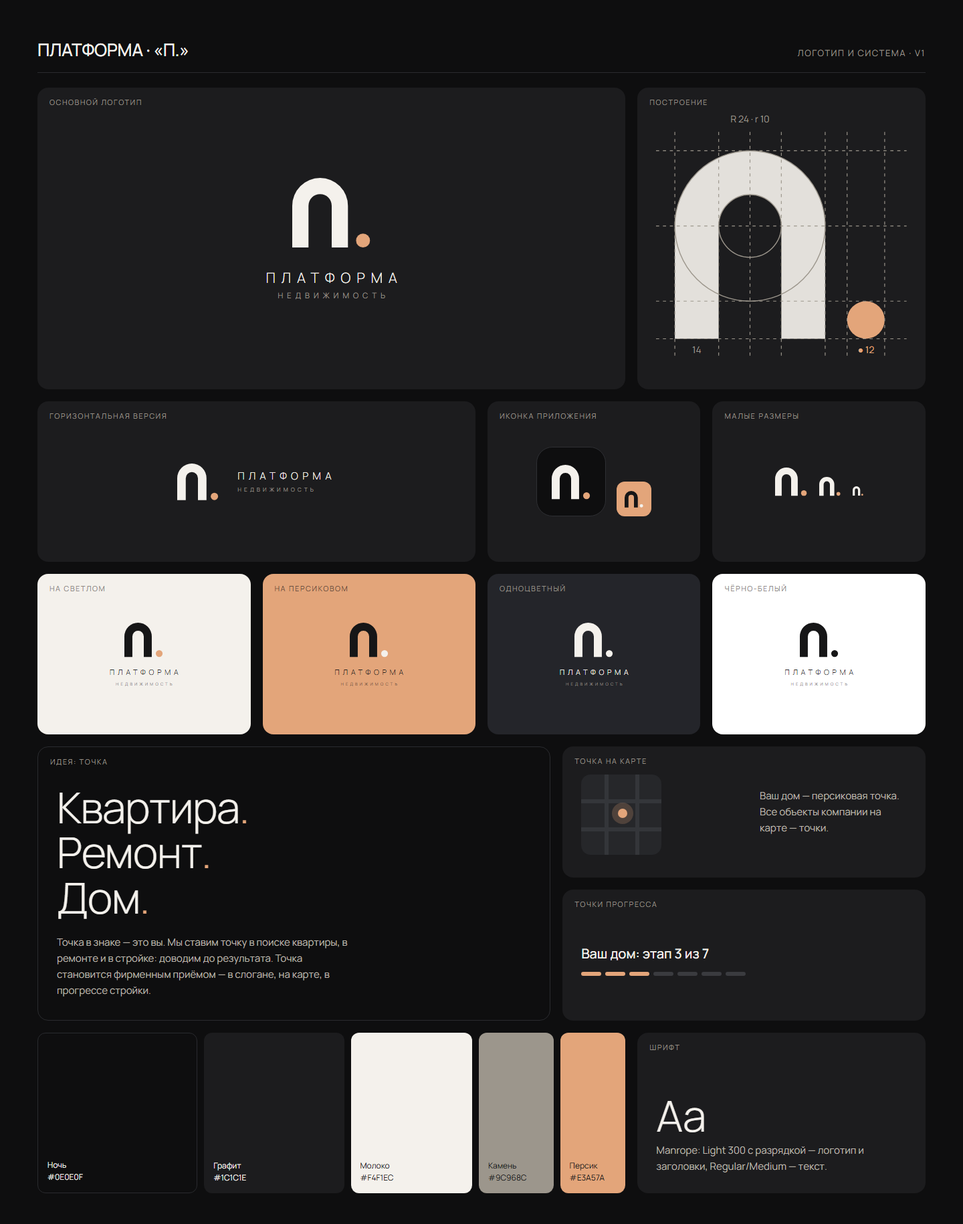
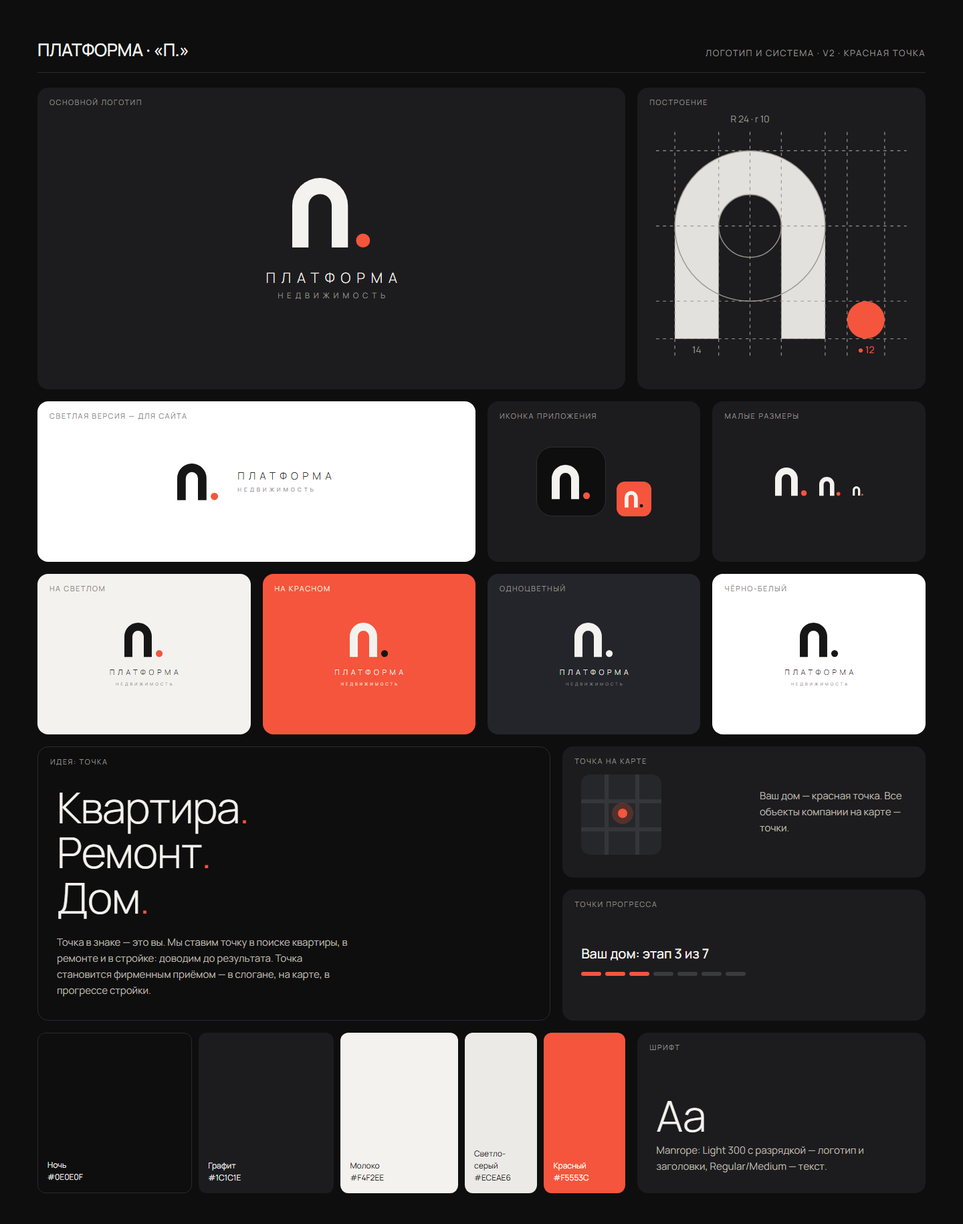
«П.»: красная точка и палитра по вкусу клиента (v2)

diff --git a/06_П_точка/index.html b/06_П_точка/index.html
@@ -2,10 +2,10 @@
 <title>Логотип «П.»</title>
 <link href="https://fonts.googleapis.com/css2?family=Manrope:wght@300;400;500;600;800&display=swap" rel="stylesheet">
 <style>
-*{box-sizing:border-box}body{margin:0;background:#0E0E0F;color:#F4F1EC;font:400 16px/1.5 Manrope,system-ui,sans-serif}
+*{box-sizing:border-box}body{margin:0;background:#0E0E0F;color:#F4F2EE;font:400 16px/1.5 Manrope,system-ui,sans-serif}
 .wrap{max-width:1440px;margin:0 auto;padding:56px}
 .top{display:flex;justify-content:space-between;align-items:baseline;border-bottom:1px solid #2A2B2F;padding-bottom:16px;margin-bottom:22px}
-.top b{font:500 26px Manrope,sans-serif;letter-spacing:-.01em}.top span{color:#9C968C;font-size:13px;letter-spacing:.12em;text-transform:uppercase}
+.top b{font:500 26px Manrope,sans-serif;letter-spacing:-.01em}.top span{color:#9A968F;font-size:13px;letter-spacing:.12em;text-transform:uppercase}
 .g{display:grid;grid-template-columns:repeat(12,minmax(0,1fr));gap:18px}
 .t{border-radius:16px;position:relative;display:flex;align-items:center;justify-content:center;min-height:240px;padding:28px}
 .cap{position:absolute;left:18px;top:14px;font-size:11px;letter-spacing:.14em;text-transform:uppercase}
@@ -16,39 +16,39 @@
 .sw{display:flex;flex-direction:column;justify-content:flex-end;padding:14px;border-radius:12px;min-height:150px;font-size:12px}
 @media(max-width:900px){.wrap{padding:24px 16px}.g>*{grid-column:span 12!important}.idea{font-size:40px}}
 </style></head><body><div class="wrap">
-<div class="top"><b>ПЛАТФОРМА · «П.»</b><span>логотип и система · v1</span></div>
+<div class="top"><b>ПЛАТФОРМА · «П.»</b><span>логотип и система · v2 · красная точка</span></div>
 <div class="g">
-  <div class="t s8" style="background:#1C1C1E;min-height:420px"><span class="cap" style="color:#9C968C">основной логотип</span><div style="display:flex;flex-direction:column;align-items:center;gap:35px"><svg width="118" height="104.1" viewBox="0 0 68 60" role="img" aria-label="Знак «П.»" style="overflow:visible"><path d="M0 60 V24 A24 24 0 0 1 48 24 V60 H34 V24 A10 10 0 0 0 14 24 V60 Z" fill="#F4F1EC"/><circle cx="61" cy="54" r="6" fill="#E3A57A"/></svg><div style="display:flex;flex-direction:column;align-items:center"><div style="font:300 21px/1 Manrope,sans-serif;letter-spacing:.42em;margin-right:-.42em;color:#F4F1EC;white-space:nowrap">ПЛАТФОРМА</div><div style="font:400 11.6px/1 Manrope,sans-serif;letter-spacing:.5em;margin-right:-.5em;color:#9C968C;white-space:nowrap;margin-top:10px">НЕДВИЖИМОСТЬ</div></div></div></div>
-  <div class="t s4" style="background:#1C1C1E;min-height:420px"><span class="cap" style="color:#9C968C">построение</span><svg width="405.6" height="395.2" viewBox="-6 -12 80 80" role="img" aria-label="Построение знака"><path d="M0 60 V24 A24 24 0 0 1 48 24 V60 H34 V24 A10 10 0 0 0 14 24 V60 Z" fill="#F4F1EC" fill-opacity=".92"/><circle cx="61" cy="54" r="6" fill="#E3A57A"/><line x1="0" y1="-6" x2="0" y2="66" stroke="#9C968C" stroke-width=".25" stroke-dasharray="1 1.2"/><line x1="14" y1="-6" x2="14" y2="66" stroke="#9C968C" stroke-width=".25" stroke-dasharray="1 1.2"/><line x1="24" y1="-6" x2="24" y2="66" stroke="#9C968C" stroke-width=".25" stroke-dasharray="1 1.2"/><line x1="34" y1="-6" x2="34" y2="66" stroke="#9C968C" stroke-width=".25" stroke-dasharray="1 1.2"/><line x1="48" y1="-6" x2="48" y2="66" stroke="#9C968C" stroke-width=".25" stroke-dasharray="1 1.2"/><line x1="55" y1="-6" x2="55" y2="66" stroke="#9C968C" stroke-width=".25" stroke-dasharray="1 1.2"/><line x1="67" y1="-6" x2="67" y2="66" stroke="#9C968C" stroke-width=".25" stroke-dasharray="1 1.2"/><line x1="-6" y1="0" x2="74" y2="0" stroke="#9C968C" stroke-width=".25" stroke-dasharray="1 1.2"/><line x1="-6" y1="24" x2="74" y2="24" stroke="#9C968C" stroke-width=".25" stroke-dasharray="1 1.2"/><line x1="-6" y1="48" x2="74" y2="48" stroke="#9C968C" stroke-width=".25" stroke-dasharray="1 1.2"/><line x1="-6" y1="60" x2="74" y2="60" stroke="#9C968C" stroke-width=".25" stroke-dasharray="1 1.2"/><circle cx="24" cy="24" r="24" fill="none" stroke="#9C968C" stroke-width=".3"/><circle cx="24" cy="24" r="10" fill="none" stroke="#9C968C" stroke-width=".3"/><text x="24" y="-9" font-size="3" fill="#9C968C" text-anchor="middle" font-family="Manrope">R 24 · r 10</text><text x="7" y="64.5" font-size="3" fill="#9C968C" text-anchor="middle" font-family="Manrope">14</text><text x="61" y="64.5" font-size="3" fill="#E3A57A" text-anchor="middle" font-family="Manrope">● 12</text></svg></div>
+  <div class="t s8" style="background:#1C1C1E;min-height:420px"><span class="cap" style="color:#9A968F">основной логотип</span><div style="display:flex;flex-direction:column;align-items:center;gap:35px"><svg width="118" height="104.1" viewBox="0 0 68 60" role="img" aria-label="Знак «П.»" style="overflow:visible"><path d="M0 60 V24 A24 24 0 0 1 48 24 V60 H34 V24 A10 10 0 0 0 14 24 V60 Z" fill="#F4F2EE"/><circle cx="61" cy="54" r="6" fill="#F5553C"/></svg><div style="display:flex;flex-direction:column;align-items:center"><div style="font:300 21px/1 Manrope,sans-serif;letter-spacing:.42em;margin-right:-.42em;color:#F4F2EE;white-space:nowrap">ПЛАТФОРМА</div><div style="font:400 11.6px/1 Manrope,sans-serif;letter-spacing:.5em;margin-right:-.5em;color:#9A968F;white-space:nowrap;margin-top:10px">НЕДВИЖИМОСТЬ</div></div></div></div>
+  <div class="t s4" style="background:#1C1C1E;min-height:420px"><span class="cap" style="color:#9A968F">построение</span><svg width="405.6" height="395.2" viewBox="-6 -12 80 80" role="img" aria-label="Построение знака"><path d="M0 60 V24 A24 24 0 0 1 48 24 V60 H34 V24 A10 10 0 0 0 14 24 V60 Z" fill="#F4F2EE" fill-opacity=".92"/><circle cx="61" cy="54" r="6" fill="#F5553C"/><line x1="0" y1="-6" x2="0" y2="66" stroke="#9A968F" stroke-width=".25" stroke-dasharray="1 1.2"/><line x1="14" y1="-6" x2="14" y2="66" stroke="#9A968F" stroke-width=".25" stroke-dasharray="1 1.2"/><line x1="24" y1="-6" x2="24" y2="66" stroke="#9A968F" stroke-width=".25" stroke-dasharray="1 1.2"/><line x1="34" y1="-6" x2="34" y2="66" stroke="#9A968F" stroke-width=".25" stroke-dasharray="1 1.2"/><line x1="48" y1="-6" x2="48" y2="66" stroke="#9A968F" stroke-width=".25" stroke-dasharray="1 1.2"/><line x1="55" y1="-6" x2="55" y2="66" stroke="#9A968F" stroke-width=".25" stroke-dasharray="1 1.2"/><line x1="67" y1="-6" x2="67" y2="66" stroke="#9A968F" stroke-width=".25" stroke-dasharray="1 1.2"/><line x1="-6" y1="0" x2="74" y2="0" stroke="#9A968F" stroke-width=".25" stroke-dasharray="1 1.2"/><line x1="-6" y1="24" x2="74" y2="24" stroke="#9A968F" stroke-width=".25" stroke-dasharray="1 1.2"/><line x1="-6" y1="48" x2="74" y2="48" stroke="#9A968F" stroke-width=".25" stroke-dasharray="1 1.2"/><line x1="-6" y1="60" x2="74" y2="60" stroke="#9A968F" stroke-width=".25" stroke-dasharray="1 1.2"/><circle cx="24" cy="24" r="24" fill="none" stroke="#9A968F" stroke-width=".3"/><circle cx="24" cy="24" r="10" fill="none" stroke="#9A968F" stroke-width=".3"/><text x="24" y="-9" font-size="3" fill="#9A968F" text-anchor="middle" font-family="Manrope">R 24 · r 10</text><text x="7" y="64.5" font-size="3" fill="#9A968F" text-anchor="middle" font-family="Manrope">14</text><text x="61" y="64.5" font-size="3" fill="#F5553C" text-anchor="middle" font-family="Manrope">● 12</text></svg></div>
 
-  <div class="t s6" style="background:#1C1C1E"><span class="cap" style="color:#9C968C">горизонтальная версия</span><div style="display:flex;align-items:center;gap:28px"><svg width="62" height="54.7" viewBox="0 0 68 60" role="img" aria-label="Знак «П.»" style="overflow:visible"><path d="M0 60 V24 A24 24 0 0 1 48 24 V60 H34 V24 A10 10 0 0 0 14 24 V60 Z" fill="#F4F1EC"/><circle cx="61" cy="54" r="6" fill="#E3A57A"/></svg><div style="display:flex;flex-direction:column;align-items:flex-start"><div style="font:300 15px/1 Manrope,sans-serif;letter-spacing:.42em;color:#F4F1EC;white-space:nowrap">ПЛАТФОРМА</div><div style="font:400 8.2px/1 Manrope,sans-serif;letter-spacing:.5em;color:#9C968C;white-space:nowrap;margin-top:9px">НЕДВИЖИМОСТЬ</div></div></div></div>
-  <div class="t s3" style="background:#1C1C1E"><span class="cap" style="color:#9C968C">иконка приложения</span>
-    <div style="display:flex;align-items:flex-end;gap:16px"><div style="width:104px;height:104px;border-radius:24px;background:#0E0E0F;display:flex;align-items:center;justify-content:center;border:1px solid #2E2F33"><svg width="58" height="51.2" viewBox="0 0 68 60" role="img" aria-label="Знак «П.»" style="overflow:visible"><path d="M0 60 V24 A24 24 0 0 1 48 24 V60 H34 V24 A10 10 0 0 0 14 24 V60 Z" fill="#F4F1EC"/><circle cx="61" cy="54" r="6" fill="#E3A57A"/></svg></div>
-    <div style="width:52px;height:52px;border-radius:12px;background:#E3A57A;display:flex;align-items:center;justify-content:center"><svg width="28" height="24.7" viewBox="0 0 68 60" role="img" aria-label="Знак «П.»" style="overflow:visible"><path d="M0 60 V24 A24 24 0 0 1 48 24 V60 H34 V24 A10 10 0 0 0 14 24 V60 Z" fill="#161617"/><circle cx="61" cy="54" r="6" fill="#F4F1EC"/></svg></div></div></div>
-  <div class="t s3" style="background:#1C1C1E"><span class="cap" style="color:#9C968C">малые размеры</span>
-    <div style="display:flex;align-items:flex-end;gap:18px"><svg width="48" height="42.4" viewBox="0 0 68 60" role="img" aria-label="Знак «П.»" style="overflow:visible"><path d="M0 60 V24 A24 24 0 0 1 48 24 V60 H34 V24 A10 10 0 0 0 14 24 V60 Z" fill="#F4F1EC"/><circle cx="61" cy="54" r="6" fill="#E3A57A"/></svg><svg width="32" height="28.2" viewBox="0 0 68 60" role="img" aria-label="Знак «П.»" style="overflow:visible"><path d="M0 60 V24 A24 24 0 0 1 48 24 V60 H34 V24 A10 10 0 0 0 14 24 V60 Z" fill="#F4F1EC"/><circle cx="61" cy="54" r="6" fill="#E3A57A"/></svg><svg width="16" height="14.1" viewBox="0 0 68 60" role="img" aria-label="Знак «П.»" style="overflow:visible"><path d="M0 60 V24 A24 24 0 0 1 48 24 V60 H34 V24 A10 10 0 0 0 14 24 V60 Z" fill="#F4F1EC"/><circle cx="61" cy="54" r="6" fill="#E3A57A"/></svg></div></div>
+  <div class="t s6" style="background:#FFFFFF"><span class="cap" style="color:#8A867F">светлая версия — для сайта</span><div style="display:flex;align-items:center;gap:28px"><svg width="62" height="54.7" viewBox="0 0 68 60" role="img" aria-label="Знак «П.»" style="overflow:visible"><path d="M0 60 V24 A24 24 0 0 1 48 24 V60 H34 V24 A10 10 0 0 0 14 24 V60 Z" fill="#161617"/><circle cx="61" cy="54" r="6" fill="#F5553C"/></svg><div style="display:flex;flex-direction:column;align-items:flex-start"><div style="font:300 15px/1 Manrope,sans-serif;letter-spacing:.42em;color:#161617;white-space:nowrap">ПЛАТФОРМА</div><div style="font:400 8.2px/1 Manrope,sans-serif;letter-spacing:.5em;color:#8A867F;white-space:nowrap;margin-top:9px">НЕДВИЖИМОСТЬ</div></div></div></div>
+  <div class="t s3" style="background:#1C1C1E"><span class="cap" style="color:#9A968F">иконка приложения</span>
+    <div style="display:flex;align-items:flex-end;gap:16px"><div style="width:104px;height:104px;border-radius:24px;background:#0E0E0F;display:flex;align-items:center;justify-content:center;border:1px solid #2E2F33"><svg width="58" height="51.2" viewBox="0 0 68 60" role="img" aria-label="Знак «П.»" style="overflow:visible"><path d="M0 60 V24 A24 24 0 0 1 48 24 V60 H34 V24 A10 10 0 0 0 14 24 V60 Z" fill="#F4F2EE"/><circle cx="61" cy="54" r="6" fill="#F5553C"/></svg></div>
+    <div style="width:52px;height:52px;border-radius:12px;background:#F5553C;display:flex;align-items:center;justify-content:center"><svg width="28" height="24.7" viewBox="0 0 68 60" role="img" aria-label="Знак «П.»" style="overflow:visible"><path d="M0 60 V24 A24 24 0 0 1 48 24 V60 H34 V24 A10 10 0 0 0 14 24 V60 Z" fill="#F4F2EE"/><circle cx="61" cy="54" r="6" fill="#161617"/></svg></div></div></div>
+  <div class="t s3" style="background:#1C1C1E"><span class="cap" style="color:#9A968F">малые размеры</span>
+    <div style="display:flex;align-items:flex-end;gap:18px"><svg width="48" height="42.4" viewBox="0 0 68 60" role="img" aria-label="Знак «П.»" style="overflow:visible"><path d="M0 60 V24 A24 24 0 0 1 48 24 V60 H34 V24 A10 10 0 0 0 14 24 V60 Z" fill="#F4F2EE"/><circle cx="61" cy="54" r="6" fill="#F5553C"/></svg><svg width="32" height="28.2" viewBox="0 0 68 60" role="img" aria-label="Знак «П.»" style="overflow:visible"><path d="M0 60 V24 A24 24 0 0 1 48 24 V60 H34 V24 A10 10 0 0 0 14 24 V60 Z" fill="#F4F2EE"/><circle cx="61" cy="54" r="6" fill="#F5553C"/></svg><svg width="16" height="14.1" viewBox="0 0 68 60" role="img" aria-label="Знак «П.»" style="overflow:visible"><path d="M0 60 V24 A24 24 0 0 1 48 24 V60 H34 V24 A10 10 0 0 0 14 24 V60 Z" fill="#F4F2EE"/><circle cx="61" cy="54" r="6" fill="#F5553C"/></svg></div></div>
 
-  <div class="t s3" style="background:#F4F1EC"><div style="display:flex;flex-direction:column;align-items:center;gap:17px"><svg width="58" height="51.2" viewBox="0 0 68 60" role="img" aria-label="Знак «П.»" style="overflow:visible"><path d="M0 60 V24 A24 24 0 0 1 48 24 V60 H34 V24 A10 10 0 0 0 14 24 V60 Z" fill="#161617"/><circle cx="61" cy="54" r="6" fill="#E3A57A"/></svg><div style="display:flex;flex-direction:column;align-items:center"><div style="font:300 11px/1 Manrope,sans-serif;letter-spacing:.42em;margin-right:-.42em;color:#161617;white-space:nowrap">ПЛАТФОРМА</div><div style="font:400 6.1px/1 Manrope,sans-serif;letter-spacing:.5em;margin-right:-.5em;color:#8A847B;white-space:nowrap;margin-top:10px">НЕДВИЖИМОСТЬ</div></div></div><span class="cap" style="color:#8A847B">на светлом</span></div><div class="t s3" style="background:#E3A57A"><div style="display:flex;flex-direction:column;align-items:center;gap:17px"><svg width="58" height="51.2" viewBox="0 0 68 60" role="img" aria-label="Знак «П.»" style="overflow:visible"><path d="M0 60 V24 A24 24 0 0 1 48 24 V60 H34 V24 A10 10 0 0 0 14 24 V60 Z" fill="#161617"/><circle cx="61" cy="54" r="6" fill="#F4F1EC"/></svg><div style="display:flex;flex-direction:column;align-items:center"><div style="font:300 11px/1 Manrope,sans-serif;letter-spacing:.42em;margin-right:-.42em;color:#161617;white-space:nowrap">ПЛАТФОРМА</div><div style="font:400 6.1px/1 Manrope,sans-serif;letter-spacing:.5em;margin-right:-.5em;color:#5E4636;white-space:nowrap;margin-top:10px">НЕДВИЖИМОСТЬ</div></div></div><span class="cap" style="color:#5E4636">на персиковом</span></div><div class="t s3" style="background:#24252A"><div style="display:flex;flex-direction:column;align-items:center;gap:17px"><svg width="58" height="51.2" viewBox="0 0 68 60" role="img" aria-label="Знак «П.»" style="overflow:visible"><path d="M0 60 V24 A24 24 0 0 1 48 24 V60 H34 V24 A10 10 0 0 0 14 24 V60 Z" fill="#F4F1EC"/><circle cx="61" cy="54" r="6" fill="#F4F1EC"/></svg><div style="display:flex;flex-direction:column;align-items:center"><div style="font:300 11px/1 Manrope,sans-serif;letter-spacing:.42em;margin-right:-.42em;color:#F4F1EC;white-space:nowrap">ПЛАТФОРМА</div><div style="font:400 6.1px/1 Manrope,sans-serif;letter-spacing:.5em;margin-right:-.5em;color:#9C968C;white-space:nowrap;margin-top:10px">НЕДВИЖИМОСТЬ</div></div></div><span class="cap" style="color:#9C968C">одноцветный</span></div><div class="t s3" style="background:#FFFFFF"><div style="display:flex;flex-direction:column;align-items:center;gap:17px"><svg width="58" height="51.2" viewBox="0 0 68 60" role="img" aria-label="Знак «П.»" style="overflow:visible"><path d="M0 60 V24 A24 24 0 0 1 48 24 V60 H34 V24 A10 10 0 0 0 14 24 V60 Z" fill="#161617"/><circle cx="61" cy="54" r="6" fill="#161617"/></svg><div style="display:flex;flex-direction:column;align-items:center"><div style="font:300 11px/1 Manrope,sans-serif;letter-spacing:.42em;margin-right:-.42em;color:#161617;white-space:nowrap">ПЛАТФОРМА</div><div style="font:400 6.1px/1 Manrope,sans-serif;letter-spacing:.5em;margin-right:-.5em;color:#8A847B;white-space:nowrap;margin-top:10px">НЕДВИЖИМОСТЬ</div></div></div><span class="cap" style="color:#8A847B">чёрно-белый</span></div>
+  <div class="t s3" style="background:#F4F2EE"><div style="display:flex;flex-direction:column;align-items:center;gap:17px"><svg width="58" height="51.2" viewBox="0 0 68 60" role="img" aria-label="Знак «П.»" style="overflow:visible"><path d="M0 60 V24 A24 24 0 0 1 48 24 V60 H34 V24 A10 10 0 0 0 14 24 V60 Z" fill="#161617"/><circle cx="61" cy="54" r="6" fill="#F5553C"/></svg><div style="display:flex;flex-direction:column;align-items:center"><div style="font:300 11px/1 Manrope,sans-serif;letter-spacing:.42em;margin-right:-.42em;color:#161617;white-space:nowrap">ПЛАТФОРМА</div><div style="font:400 6.1px/1 Manrope,sans-serif;letter-spacing:.5em;margin-right:-.5em;color:#8A847B;white-space:nowrap;margin-top:10px">НЕДВИЖИМОСТЬ</div></div></div><span class="cap" style="color:#8A847B">на светлом</span></div><div class="t s3" style="background:#F5553C"><div style="display:flex;flex-direction:column;align-items:center;gap:17px"><svg width="58" height="51.2" viewBox="0 0 68 60" role="img" aria-label="Знак «П.»" style="overflow:visible"><path d="M0 60 V24 A24 24 0 0 1 48 24 V60 H34 V24 A10 10 0 0 0 14 24 V60 Z" fill="#F4F2EE"/><circle cx="61" cy="54" r="6" fill="#161617"/></svg><div style="display:flex;flex-direction:column;align-items:center"><div style="font:300 11px/1 Manrope,sans-serif;letter-spacing:.42em;margin-right:-.42em;color:#F4F2EE;white-space:nowrap">ПЛАТФОРМА</div><div style="font:400 6.1px/1 Manrope,sans-serif;letter-spacing:.5em;margin-right:-.5em;color:#FFE3DC;white-space:nowrap;margin-top:10px">НЕДВИЖИМОСТЬ</div></div></div><span class="cap" style="color:#FFE3DC">на красном</span></div><div class="t s3" style="background:#24252A"><div style="display:flex;flex-direction:column;align-items:center;gap:17px"><svg width="58" height="51.2" viewBox="0 0 68 60" role="img" aria-label="Знак «П.»" style="overflow:visible"><path d="M0 60 V24 A24 24 0 0 1 48 24 V60 H34 V24 A10 10 0 0 0 14 24 V60 Z" fill="#F4F2EE"/><circle cx="61" cy="54" r="6" fill="#F4F2EE"/></svg><div style="display:flex;flex-direction:column;align-items:center"><div style="font:300 11px/1 Manrope,sans-serif;letter-spacing:.42em;margin-right:-.42em;color:#F4F2EE;white-space:nowrap">ПЛАТФОРМА</div><div style="font:400 6.1px/1 Manrope,sans-serif;letter-spacing:.5em;margin-right:-.5em;color:#9A968F;white-space:nowrap;margin-top:10px">НЕДВИЖИМОСТЬ</div></div></div><span class="cap" style="color:#9A968F">одноцветный</span></div><div class="t s3" style="background:#FFFFFF"><div style="display:flex;flex-direction:column;align-items:center;gap:17px"><svg width="58" height="51.2" viewBox="0 0 68 60" role="img" aria-label="Знак «П.»" style="overflow:visible"><path d="M0 60 V24 A24 24 0 0 1 48 24 V60 H34 V24 A10 10 0 0 0 14 24 V60 Z" fill="#161617"/><circle cx="61" cy="54" r="6" fill="#161617"/></svg><div style="display:flex;flex-direction:column;align-items:center"><div style="font:300 11px/1 Manrope,sans-serif;letter-spacing:.42em;margin-right:-.42em;color:#161617;white-space:nowrap">ПЛАТФОРМА</div><div style="font:400 6.1px/1 Manrope,sans-serif;letter-spacing:.5em;margin-right:-.5em;color:#8A847B;white-space:nowrap;margin-top:10px">НЕДВИЖИМОСТЬ</div></div></div><span class="cap" style="color:#8A847B">чёрно-белый</span></div>
 
   <div class="t s7" style="background:#0E0E0F;border:1px solid #2A2B2F;justify-content:flex-start;align-items:flex-start;flex-direction:column;gap:22px;min-height:360px">
-    <span class="cap" style="color:#9C968C">идея: точка</span>
-    <div class="idea" style="margin-top:28px">Квартира<span style="color:#E3A57A">.</span><br>Ремонт<span style="color:#E3A57A">.</span><br>Дом<span style="color:#E3A57A">.</span></div>
+    <span class="cap" style="color:#9A968F">идея: точка</span>
+    <div class="idea" style="margin-top:28px">Квартира<span style="color:#F5553C">.</span><br>Ремонт<span style="color:#F5553C">.</span><br>Дом<span style="color:#F5553C">.</span></div>
     <div class="txt">Точка в знаке — это вы. Мы ставим точку в поиске квартиры, в ремонте и в стройке: доводим до результата. Точка становится фирменным приёмом — в слогане, на карте, в прогрессе стройки.</div>
   </div>
   <div class="s5" style="display:grid;grid-template-rows:1fr 1fr;gap:18px">
-    <div class="t" style="background:#1C1C1E;justify-content:space-between;min-height:170px"><span class="cap" style="color:#9C968C">точка на карте</span>
-      <div style="margin-top:14px"><svg width="120" height="120" viewBox="0 0 120 120" aria-hidden="true"><rect width="120" height="120" rx="14" fill="#26272A"/><path d="M0 40 H120 M0 82 H120 M38 0 V120 M84 0 V120" stroke="#34363A" stroke-width="6"/><circle cx="62" cy="58" r="16" fill="#E3A57A" fill-opacity=".22"/><circle cx="62" cy="58" r="7" fill="#E3A57A"/></svg></div><div class="txt" style="max-width:220px">Ваш дом — персиковая точка. Все объекты компании на карте — точки.</div></div>
-    <div class="t" style="background:#1C1C1E;flex-direction:column;align-items:flex-start;justify-content:center;gap:14px;min-height:170px"><span class="cap" style="color:#9C968C">точки прогресса</span>
-      <div style="font:500 20px Manrope,sans-serif;margin-top:14px">Ваш дом: этап 3 из 7</div><div class="prog"><i style="background:#E3A57A"></i><i style="background:#E3A57A"></i><i style="background:#E3A57A"></i><i style="background:#3A3B3F"></i><i style="background:#3A3B3F"></i><i style="background:#3A3B3F"></i><i style="background:#3A3B3F"></i></div></div>
+    <div class="t" style="background:#1C1C1E;justify-content:space-between;min-height:170px"><span class="cap" style="color:#9A968F">точка на карте</span>
+      <div style="margin-top:14px"><svg width="120" height="120" viewBox="0 0 120 120" aria-hidden="true"><rect width="120" height="120" rx="14" fill="#26272A"/><path d="M0 40 H120 M0 82 H120 M38 0 V120 M84 0 V120" stroke="#34363A" stroke-width="6"/><circle cx="62" cy="58" r="16" fill="#F5553C" fill-opacity=".22"/><circle cx="62" cy="58" r="7" fill="#F5553C"/></svg></div><div class="txt" style="max-width:220px">Ваш дом — красная точка. Все объекты компании на карте — точки.</div></div>
+    <div class="t" style="background:#1C1C1E;flex-direction:column;align-items:flex-start;justify-content:center;gap:14px;min-height:170px"><span class="cap" style="color:#9A968F">точки прогресса</span>
+      <div style="font:500 20px Manrope,sans-serif;margin-top:14px">Ваш дом: этап 3 из 7</div><div class="prog"><i style="background:#F5553C"></i><i style="background:#F5553C"></i><i style="background:#F5553C"></i><i style="background:#3A3B3F"></i><i style="background:#3A3B3F"></i><i style="background:#3A3B3F"></i><i style="background:#3A3B3F"></i></div></div>
   </div>
 
   <div class="s8" style="display:flex;gap:10px">
     <div class="sw" style="flex:30;background:#0E0E0F;border:1px solid #2A2B2F">Ночь<br>#0E0E0F</div>
     <div class="sw" style="flex:26;background:#1C1C1E">Графит<br>#1C1C1E</div>
-    <div class="sw" style="flex:22;background:#F4F1EC;color:#161617">Молоко<br>#F4F1EC</div>
-    <div class="sw" style="flex:12;background:#9C968C;color:#161617">Камень<br>#9C968C</div>
-    <div class="sw" style="flex:10;background:#E3A57A;color:#161617">Персик<br>#E3A57A</div>
+    <div class="sw" style="flex:22;background:#F4F2EE;color:#161617">Молоко<br>#F4F2EE</div>
+    <div class="sw" style="flex:12;background:#ECEAE6;color:#161617">Светло-серый<br>#ECEAE6</div>
+    <div class="sw" style="flex:14;background:#F5553C;color:#FFFFFF">Красный<br>#F5553C</div>
   </div>
-  <div class="t s4" style="background:#1C1C1E;flex-direction:column;align-items:flex-start;justify-content:flex-end;gap:8px"><span class="cap" style="color:#9C968C">шрифт</span>
+  <div class="t s4" style="background:#1C1C1E;flex-direction:column;align-items:flex-start;justify-content:flex-end;gap:8px"><span class="cap" style="color:#9A968F">шрифт</span>
     <div style="font:300 64px/1 Manrope,sans-serif">Аа</div><div class="txt">Manrope: Light 300 с разрядкой — логотип и заголовки, Regular/Medium — текст.</div></div>
 </div></div></body></html>

diff --git a/tools/p_dot_peach.py b/tools/p_dot_peach.py
@@ -1,0 +1,116 @@
+"""«П.» — логотип и система. Run: py -3 tools/p_dot.py → 06_П_точка/index.html"""
+import os
+
+ROOT = os.path.dirname(os.path.dirname(os.path.abspath(__file__)))
+OUT = os.path.join(ROOT, '06_П_точка')
+os.makedirs(OUT, exist_ok=True)
+
+NIGHT, GRAPH, MILK, PEACH, SAND, INK = '#0E0E0F', '#1C1C1E', '#F4F1EC', '#E3A57A', '#9C968C', '#161617'
+ARCH = 'M0 60 V24 A24 24 0 0 1 48 24 V60 H34 V24 A10 10 0 0 0 14 24 V60 Z'
+
+
+def mark(w, c=MILK, dot=PEACH, label='Знак «П.»'):
+    return (f'<svg width="{w}" height="{w * 60 / 68:.1f}" viewBox="0 0 68 60" role="img" aria-label="{label}" style="overflow:visible">'
+            f'<path d="{ARCH}" fill="{c}"/><circle cx="61" cy="54" r="6" fill="{dot}"/></svg>')
+
+
+def word(c, size=16, sub=SAND, gap=10):
+    return (f'<div style="display:flex;flex-direction:column;align-items:center">'
+            f'<div style="font:300 {size}px/1 Manrope,sans-serif;letter-spacing:.42em;margin-right:-.42em;color:{c};white-space:nowrap">ПЛАТФОРМА</div>'
+            f'<div style="font:400 {size * .55:.1f}px/1 Manrope,sans-serif;letter-spacing:.5em;margin-right:-.5em;color:{sub};white-space:nowrap;margin-top:{gap}px">НЕДВИЖИМОСТЬ</div></div>')
+
+
+def vlock(w, size, c=MILK, dot=PEACH, sub=SAND):
+    return f'<div style="display:flex;flex-direction:column;align-items:center;gap:{round(w * .3)}px">{mark(w, c, dot)}{word(c, size, sub)}</div>'
+
+
+def hlock(w, size, c=MILK, dot=PEACH, sub=SAND):
+    wd = (f'<div style="display:flex;flex-direction:column;align-items:flex-start">'
+          f'<div style="font:300 {size}px/1 Manrope,sans-serif;letter-spacing:.42em;color:{c};white-space:nowrap">ПЛАТФОРМА</div>'
+          f'<div style="font:400 {size * .55:.1f}px/1 Manrope,sans-serif;letter-spacing:.5em;color:{sub};white-space:nowrap;margin-top:9px">НЕДВИЖИМОСТЬ</div></div>')
+    return f'<div style="display:flex;align-items:center;gap:{round(w * .45)}px">{mark(w, c, dot)}{wd}</div>'
+
+
+def construction():
+    s = 5.2  # px per unit
+    g = ''
+    for x in (0, 14, 24, 34, 48, 55, 67):
+        g += f'<line x1="{x}" y1="-6" x2="{x}" y2="66" stroke="{SAND}" stroke-width=".25" stroke-dasharray="1 1.2"/>'
+    for y in (0, 24, 48, 60):
+        g += f'<line x1="-6" y1="{y}" x2="74" y2="{y}" stroke="{SAND}" stroke-width=".25" stroke-dasharray="1 1.2"/>'
+    g += f'<circle cx="24" cy="24" r="24" fill="none" stroke="{SAND}" stroke-width=".3"/><circle cx="24" cy="24" r="10" fill="none" stroke="{SAND}" stroke-width=".3"/>'
+    notes = (f'<text x="24" y="-9" font-size="3" fill="{SAND}" text-anchor="middle" font-family="Manrope">R 24 · r 10</text>'
+             f'<text x="7" y="64.5" font-size="3" fill="{SAND}" text-anchor="middle" font-family="Manrope">14</text>'
+             f'<text x="61" y="64.5" font-size="3" fill="{PEACH}" text-anchor="middle" font-family="Manrope">● 12</text>')
+    return (f'<svg width="{78 * s}" height="{76 * s}" viewBox="-6 -12 80 80" role="img" aria-label="Построение знака">'
+            f'<path d="{ARCH}" fill="{MILK}" fill-opacity=".92"/><circle cx="61" cy="54" r="6" fill="{PEACH}"/>{g}{notes}</svg>')
+
+
+def page():
+    dot = f'<span style="color:{PEACH}">.</span>'
+    pin = (f'<svg width="120" height="120" viewBox="0 0 120 120" aria-hidden="true"><rect width="120" height="120" rx="14" fill="#26272A"/>'
+           f'<path d="M0 40 H120 M0 82 H120 M38 0 V120 M84 0 V120" stroke="#34363A" stroke-width="6"/>'
+           f'<circle cx="62" cy="58" r="16" fill="{PEACH}" fill-opacity=".22"/><circle cx="62" cy="58" r="7" fill="{PEACH}"/></svg>')
+    prog = ''.join(f'<i style="background:{PEACH if i < 3 else "#3A3B3F"}"></i>' for i in range(7))
+    tiles_ver = ''.join(f'<div class="t s3" style="background:{bg}">{vlock(58, 11, c, d, s_)}<span class="cap" style="color:{s_}">{cap}</span></div>'
+                        for bg, c, d, s_, cap in ((MILK, INK, PEACH, '#8A847B', 'на светлом'), (PEACH, INK, MILK, '#5E4636', 'на персиковом'),
+                                                  ('#24252A', MILK, MILK, SAND, 'одноцветный'), ('#FFFFFF', INK, INK, '#8A847B', 'чёрно-белый')))
+    return f'''<!doctype html><html lang="ru"><head><meta charset="utf-8"><meta name="viewport" content="width=device-width,initial-scale=1">
+<title>Логотип «П.»</title>
+<link href="https://fonts.googleapis.com/css2?family=Manrope:wght@300;400;500;600;800&display=swap" rel="stylesheet">
+<style>
+*{{box-sizing:border-box}}body{{margin:0;background:{NIGHT};color:{MILK};font:400 16px/1.5 Manrope,system-ui,sans-serif}}
+.wrap{{max-width:1440px;margin:0 auto;padding:56px}}
+.top{{display:flex;justify-content:space-between;align-items:baseline;border-bottom:1px solid #2A2B2F;padding-bottom:16px;margin-bottom:22px}}
+.top b{{font:500 26px Manrope,sans-serif;letter-spacing:-.01em}}.top span{{color:{SAND};font-size:13px;letter-spacing:.12em;text-transform:uppercase}}
+.g{{display:grid;grid-template-columns:repeat(12,minmax(0,1fr));gap:18px}}
+.t{{border-radius:16px;position:relative;display:flex;align-items:center;justify-content:center;min-height:240px;padding:28px}}
+.cap{{position:absolute;left:18px;top:14px;font-size:11px;letter-spacing:.14em;text-transform:uppercase}}
+.s3{{grid-column:span 3}}.s4{{grid-column:span 4}}.s5{{grid-column:span 5}}.s6{{grid-column:span 6}}.s7{{grid-column:span 7}}.s8{{grid-column:span 8}}.s12{{grid-column:span 12}}
+.idea{{font:300 64px/1.05 Manrope,sans-serif;letter-spacing:-.02em}}
+.txt{{color:#BDB7AD;font-size:15px;line-height:1.6;max-width:440px}}
+.prog{{display:flex;gap:6px}}.prog i{{display:block;width:30px;height:6px;border-radius:3px}}
+.sw{{display:flex;flex-direction:column;justify-content:flex-end;padding:14px;border-radius:12px;min-height:150px;font-size:12px}}
+@media(max-width:900px){{.wrap{{padding:24px 16px}}.g>*{{grid-column:span 12!important}}.idea{{font-size:40px}}}}
+</style></head><body><div class="wrap">
+<div class="top"><b>ПЛАТФОРМА · «П.»</b><span>логотип и система · v1</span></div>
+<div class="g">
+  <div class="t s8" style="background:{GRAPH};min-height:420px"><span class="cap" style="color:{SAND}">основной логотип</span>{vlock(118, 21)}</div>
+  <div class="t s4" style="background:{GRAPH};min-height:420px"><span class="cap" style="color:{SAND}">построение</span>{construction()}</div>
+
+  <div class="t s6" style="background:{GRAPH}"><span class="cap" style="color:{SAND}">горизонтальная версия</span>{hlock(62, 15)}</div>
+  <div class="t s3" style="background:{GRAPH}"><span class="cap" style="color:{SAND}">иконка приложения</span>
+    <div style="display:flex;align-items:flex-end;gap:16px"><div style="width:104px;height:104px;border-radius:24px;background:{NIGHT};display:flex;align-items:center;justify-content:center;border:1px solid #2E2F33">{mark(58)}</div>
+    <div style="width:52px;height:52px;border-radius:12px;background:{PEACH};display:flex;align-items:center;justify-content:center">{mark(28, INK, MILK)}</div></div></div>
+  <div class="t s3" style="background:{GRAPH}"><span class="cap" style="color:{SAND}">малые размеры</span>
+    <div style="display:flex;align-items:flex-end;gap:18px">{mark(48)}{mark(32)}{mark(16)}</div></div>
+
+  {tiles_ver}
+
+  <div class="t s7" style="background:{NIGHT};border:1px solid #2A2B2F;justify-content:flex-start;align-items:flex-start;flex-direction:column;gap:22px;min-height:360px">
+    <span class="cap" style="color:{SAND}">идея: точка</span>
+    <div class="idea" style="margin-top:28px">Квартира{dot}<br>Ремонт{dot}<br>Дом{dot}</div>
+    <div class="txt">Точка в знаке — это вы. Мы ставим точку в поиске квартиры, в ремонте и в стройке: доводим до результата. Точка становится фирменным приёмом — в слогане, на карте, в прогрессе стройки.</div>
+  </div>
+  <div class="s5" style="display:grid;grid-template-rows:1fr 1fr;gap:18px">
+    <div class="t" style="background:{GRAPH};justify-content:space-between;min-height:170px"><span class="cap" style="color:{SAND}">точка на карте</span>
+      <div style="margin-top:14px">{pin}</div><div class="txt" style="max-width:220px">Ваш дом — персиковая точка. Все объекты компании на карте — точки.</div></div>
+    <div class="t" style="background:{GRAPH};flex-direction:column;align-items:flex-start;justify-content:center;gap:14px;min-height:170px"><span class="cap" style="color:{SAND}">точки прогресса</span>
+      <div style="font:500 20px Manrope,sans-serif;margin-top:14px">Ваш дом: этап 3 из 7</div><div class="prog">{prog}</div></div>
+  </div>
+
+  <div class="s8" style="display:flex;gap:10px">
+    <div class="sw" style="flex:30;background:{NIGHT};border:1px solid #2A2B2F">Ночь<br>{NIGHT}</div>
+    <div class="sw" style="flex:26;background:{GRAPH}">Графит<br>{GRAPH}</div>
+    <div class="sw" style="flex:22;background:{MILK};color:{INK}">Молоко<br>{MILK}</div>
+    <div class="sw" style="flex:12;background:{SAND};color:{INK}">Камень<br>{SAND}</div>
+    <div class="sw" style="flex:10;background:{PEACH};color:{INK}">Персик<br>{PEACH}</div>
+  </div>
+  <div class="t s4" style="background:{GRAPH};flex-direction:column;align-items:flex-start;justify-content:flex-end;gap:8px"><span class="cap" style="color:{SAND}">шрифт</span>
+    <div style="font:300 64px/1 Manrope,sans-serif">Аа</div><div class="txt">Manrope: Light 300 с разрядкой — логотип и заголовки, Regular/Medium — текст.</div></div>
+</div></div></body></html>'''
+
+
+if __name__ == '__main__':
+    open(os.path.join(OUT, 'index.html'), 'w', encoding='utf8').write(page())
+    print('ok')

diff --git a/tools/p_dot.py b/tools/p_dot.py
@@ -5,7 +5,8 @@ ROOT = os.path.dirname(os.path.dirname(os.path.abspath(__file__)))
 OUT = os.path.join(ROOT, '06_П_точка')
 os.makedirs(OUT, exist_ok=True)
 
-NIGHT, GRAPH, MILK, PEACH, SAND, INK = '#0E0E0F', '#1C1C1E', '#F4F1EC', '#E3A57A', '#9C968C', '#161617'
+NIGHT, GRAPH, MILK, PEACH, SAND, INK = '#0E0E0F', '#1C1C1E', '#F4F2EE', '#F5553C', '#9A968F', '#161617'
+LIGHT = '#ECEAE6'
 ARCH = 'M0 60 V24 A24 24 0 0 1 48 24 V60 H34 V24 A10 10 0 0 0 14 24 V60 Z'
 
 
@@ -53,7 +54,7 @@ def page():
            f'<circle cx="62" cy="58" r="16" fill="{PEACH}" fill-opacity=".22"/><circle cx="62" cy="58" r="7" fill="{PEACH}"/></svg>')
     prog = ''.join(f'<i style="background:{PEACH if i < 3 else "#3A3B3F"}"></i>' for i in range(7))
     tiles_ver = ''.join(f'<div class="t s3" style="background:{bg}">{vlock(58, 11, c, d, s_)}<span class="cap" style="color:{s_}">{cap}</span></div>'
-                        for bg, c, d, s_, cap in ((MILK, INK, PEACH, '#8A847B', 'на светлом'), (PEACH, INK, MILK, '#5E4636', 'на персиковом'),
+                        for bg, c, d, s_, cap in ((MILK, INK, PEACH, '#8A847B', 'на светлом'), (PEACH, MILK, INK, '#FFE3DC', 'на красном'),
                                                   ('#24252A', MILK, MILK, SAND, 'одноцветный'), ('#FFFFFF', INK, INK, '#8A847B', 'чёрно-белый')))
     return f'''<!doctype html><html lang="ru"><head><meta charset="utf-8"><meta name="viewport" content="width=device-width,initial-scale=1">
 <title>Логотип «П.»</title>
@@ -73,15 +74,15 @@ def page():
 .sw{{display:flex;flex-direction:column;justify-content:flex-end;padding:14px;border-radius:12px;min-height:150px;font-size:12px}}
 @media(max-width:900px){{.wrap{{padding:24px 16px}}.g>*{{grid-column:span 12!important}}.idea{{font-size:40px}}}}
 </style></head><body><div class="wrap">
-<div class="top"><b>ПЛАТФОРМА · «П.»</b><span>логотип и система · v1</span></div>
+<div class="top"><b>ПЛАТФОРМА · «П.»</b><span>логотип и система · v2 · красная точка</span></div>
 <div class="g">
   <div class="t s8" style="background:{GRAPH};min-height:420px"><span class="cap" style="color:{SAND}">основной логотип</span>{vlock(118, 21)}</div>
   <div class="t s4" style="background:{GRAPH};min-height:420px"><span class="cap" style="color:{SAND}">построение</span>{construction()}</div>
 
-  <div class="t s6" style="background:{GRAPH}"><span class="cap" style="color:{SAND}">горизонтальная версия</span>{hlock(62, 15)}</div>
+  <div class="t s6" style="background:#FFFFFF"><span class="cap" style="color:#8A867F">светлая версия — для сайта</span>{hlock(62, 15, INK, PEACH, '#8A867F')}</div>
   <div class="t s3" style="background:{GRAPH}"><span class="cap" style="color:{SAND}">иконка приложения</span>
     <div style="display:flex;align-items:flex-end;gap:16px"><div style="width:104px;height:104px;border-radius:24px;background:{NIGHT};display:flex;align-items:center;justify-content:center;border:1px solid #2E2F33">{mark(58)}</div>
-    <div style="width:52px;height:52px;border-radius:12px;background:{PEACH};display:flex;align-items:center;justify-content:center">{mark(28, INK, MILK)}</div></div></div>
+    <div style="width:52px;height:52px;border-radius:12px;background:{PEACH};display:flex;align-items:center;justify-content:center">{mark(28, MILK, INK)}</div></div></div>
   <div class="t s3" style="background:{GRAPH}"><span class="cap" style="color:{SAND}">малые размеры</span>
     <div style="display:flex;align-items:flex-end;gap:18px">{mark(48)}{mark(32)}{mark(16)}</div></div>
 
@@ -94,7 +95,7 @@ def page():
   </div>
   <div class="s5" style="display:grid;grid-template-rows:1fr 1fr;gap:18px">
     <div class="t" style="background:{GRAPH};justify-content:space-between;min-height:170px"><span class="cap" style="color:{SAND}">точка на карте</span>
-      <div style="margin-top:14px">{pin}</div><div class="txt" style="max-width:220px">Ваш дом — персиковая точка. Все объекты компании на карте — точки.</div></div>
+      <div style="margin-top:14px">{pin}</div><div class="txt" style="max-width:220px">Ваш дом — красная точка. Все объекты компании на карте — точки.</div></div>
     <div class="t" style="background:{GRAPH};flex-direction:column;align-items:flex-start;justify-content:center;gap:14px;min-height:170px"><span class="cap" style="color:{SAND}">точки прогресса</span>
       <div style="font:500 20px Manrope,sans-serif;margin-top:14px">Ваш дом: этап 3 из 7</div><div class="prog">{prog}</div></div>
   </div>
@@ -103,8 +104,8 @@ def page():
     <div class="sw" style="flex:30;background:{NIGHT};border:1px solid #2A2B2F">Ночь<br>{NIGHT}</div>
     <div class="sw" style="flex:26;background:{GRAPH}">Графит<br>{GRAPH}</div>
     <div class="sw" style="flex:22;background:{MILK};color:{INK}">Молоко<br>{MILK}</div>
-    <div class="sw" style="flex:12;background:{SAND};color:{INK}">Камень<br>{SAND}</div>
-    <div class="sw" style="flex:10;background:{PEACH};color:{INK}">Персик<br>{PEACH}</div>
+    <div class="sw" style="flex:12;background:{LIGHT};color:{INK}">Светло-серый<br>{LIGHT}</div>
+    <div class="sw" style="flex:14;background:{PEACH};color:#FFFFFF">Красный<br>{PEACH}</div>
   </div>
   <div class="t s4" style="background:{GRAPH};flex-direction:column;align-items:flex-start;justify-content:flex-end;gap:8px"><span class="cap" style="color:{SAND}">шрифт</span>
     <div style="font:300 64px/1 Manrope,sans-serif">Аа</div><div class="txt">Manrope: Light 300 с разрядкой — логотип и заголовки, Regular/Medium — текст.</div></div>

diff --git a/DESIGN.md b/DESIGN.md
@@ -1,6 +1,6 @@
 # DESIGN.md — «ПЛАТФОРМА НЕДВИЖИМОСТИ»
 
-Дизайн-документ бренда и сайта-приложения. Статус: **выбран знак «П.»** (2026-11-13): скруглённая «П»-арка (R 24, r 10, ножки 14) + персиковая точка Ø12; тёмная палитра (ночь `#0E0E0F`, графит `#1C1C1E`, молоко `#F4F1EC`, камень `#9C968C`, персик `#E3A57A`); ПЛАТФОРМА — Manrope Light 300, разрядка 0.42em; идея «Ставим точку». Лист — `06_П_точка/`. «Арка» и варианты 2–6 — в истории ниже и в архиве.
+Дизайн-документ бренда и сайта-приложения. Статус: **выбран знак «П.»** (2026-11-13): скруглённая «П»-арка (R 24, r 10, ножки 14) + красная точка Ø12; палитра v2 (по вкусу клиента, ориентир — Zello): красная точка и акцент `#F5553C`, ночь `#0E0E0F`, графит `#1C1C1E`, молоко `#F4F2EE`, светло-серый `#ECEAE6`; сайт — светлый, бренд-носители — тёмные и красные; ПЛАТФОРМА — Manrope Light 300, разрядка 0.42em; идея «Ставим точку». Лист — `06_П_точка/`. «Арка» и варианты 2–6 — в истории ниже и в архиве.
 
 ## Варианты логотипа и стиля (актуально, v3)
 
